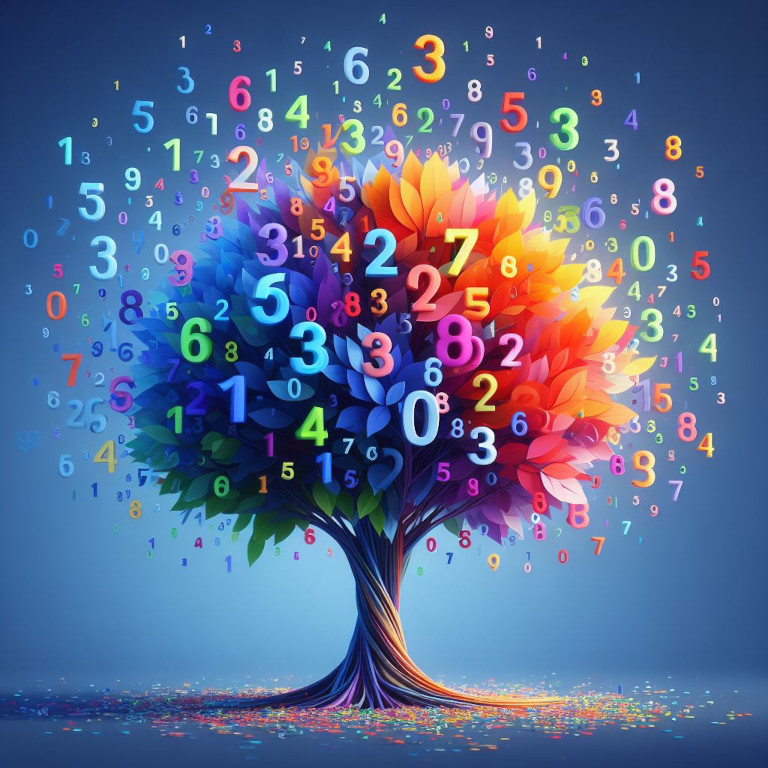
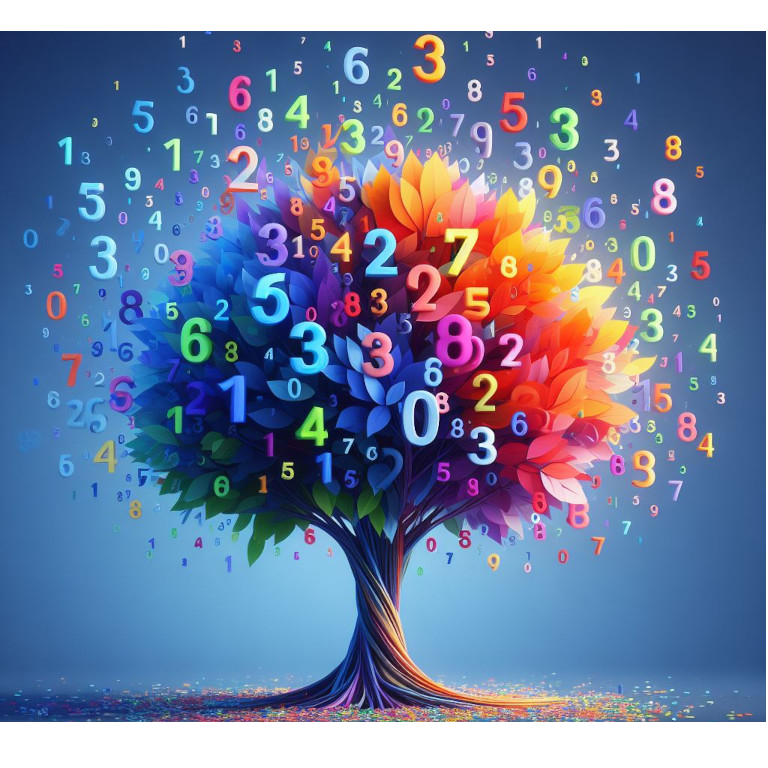
fix image

Changed region(s): [[0.0, 0.9375, 1.0, 1.0], [0.0, 0.0, 1.0, 0.0625]]

diff --git a/README.md b/README.md
@@ -1,8 +1,6 @@
 # Ultimited classifier
 
-<div align="center">
-    <img src ="images/tree.jpeg", alt="Tree">
-</div>
+<img src ="images/tree.jpeg", alt="Tree">
 
 This is a universal text classifier that uses text generation with constraints for large-scale zero-shot text categorization. We represent labels as a tree of tokens and limit the possible variants of generation to provided labels. Such approach allows to make classification of text having millions of labels. 
 
